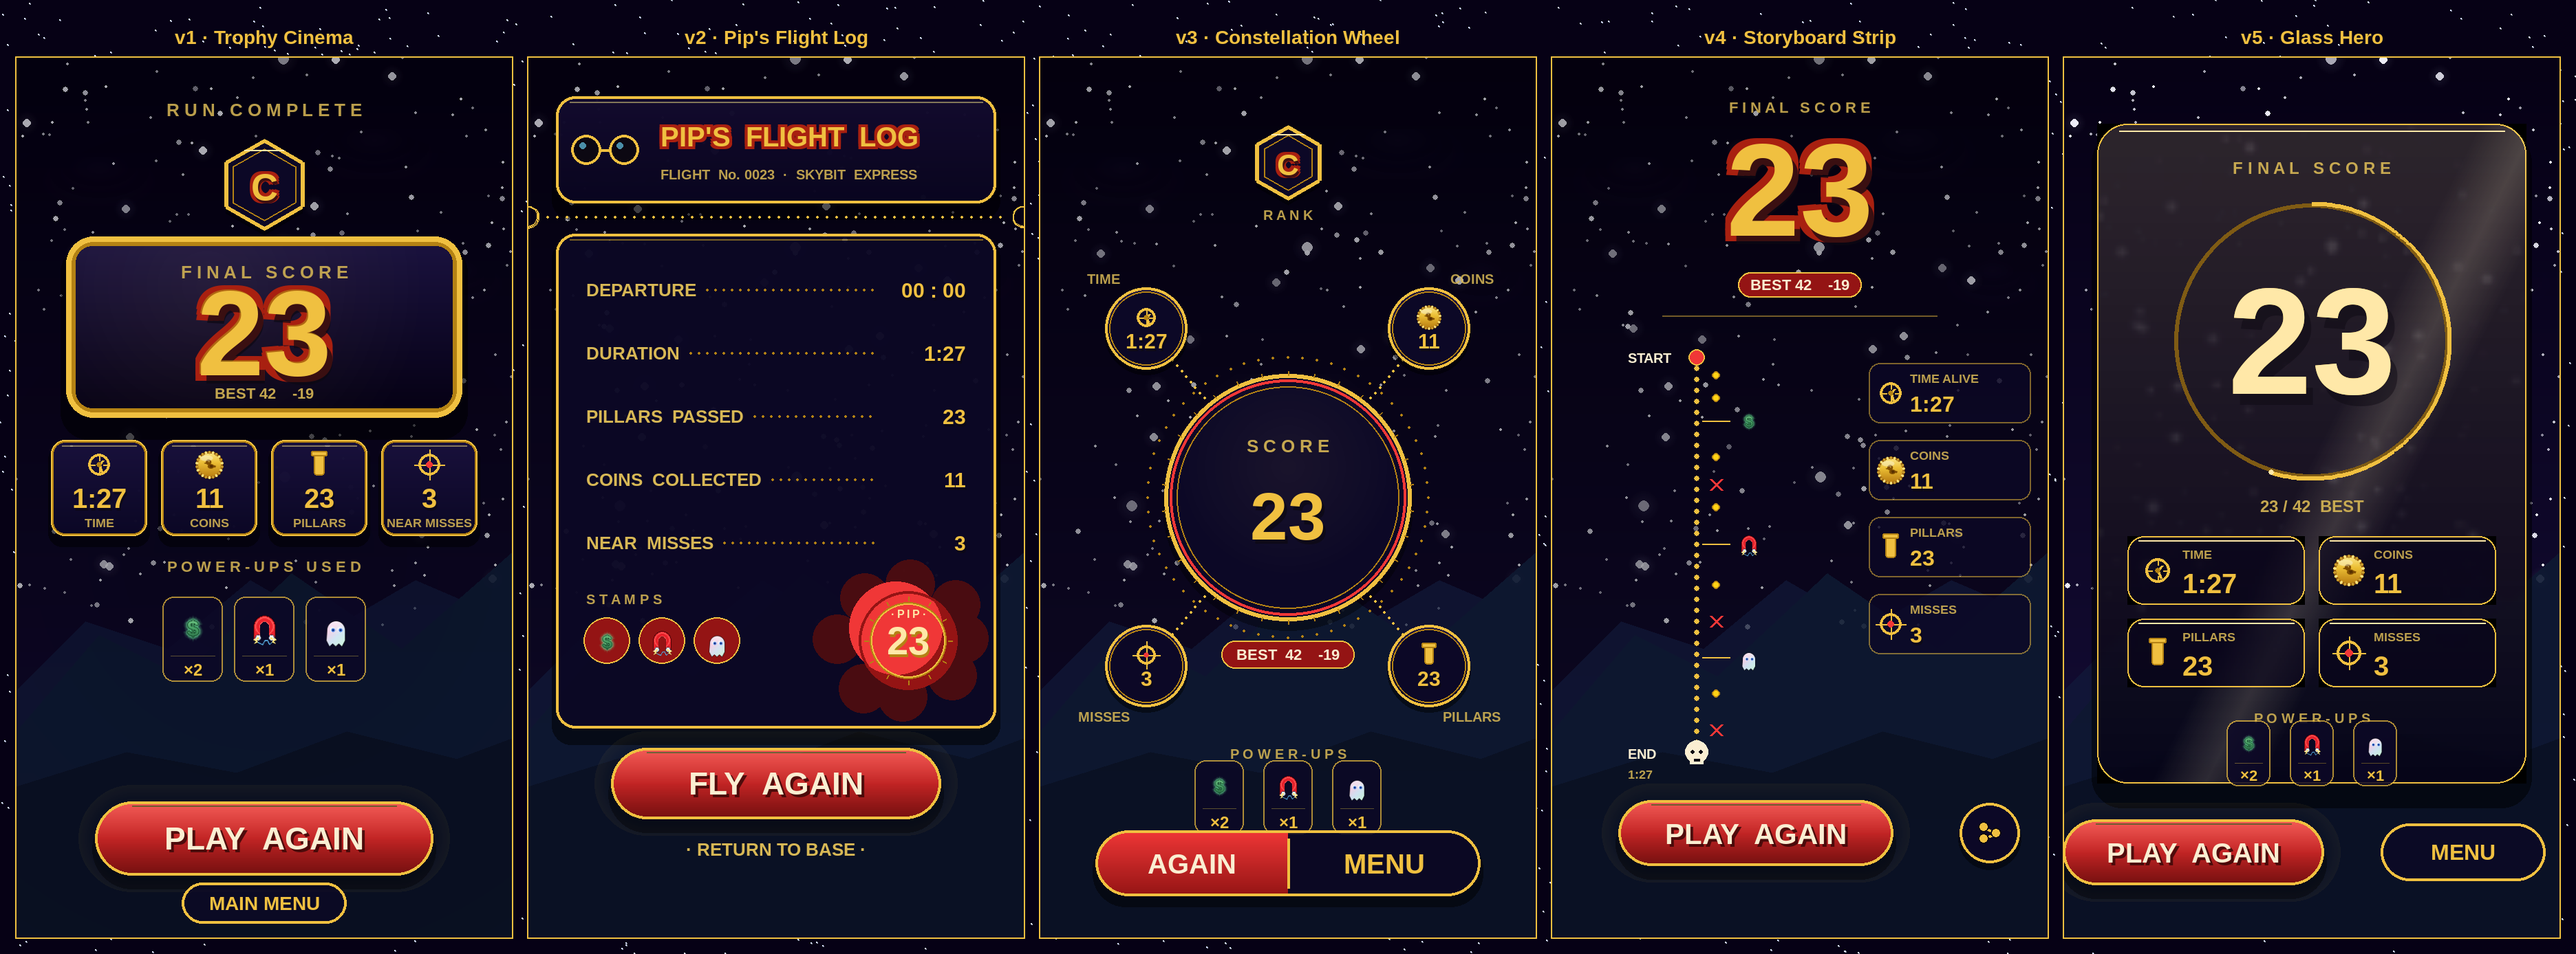
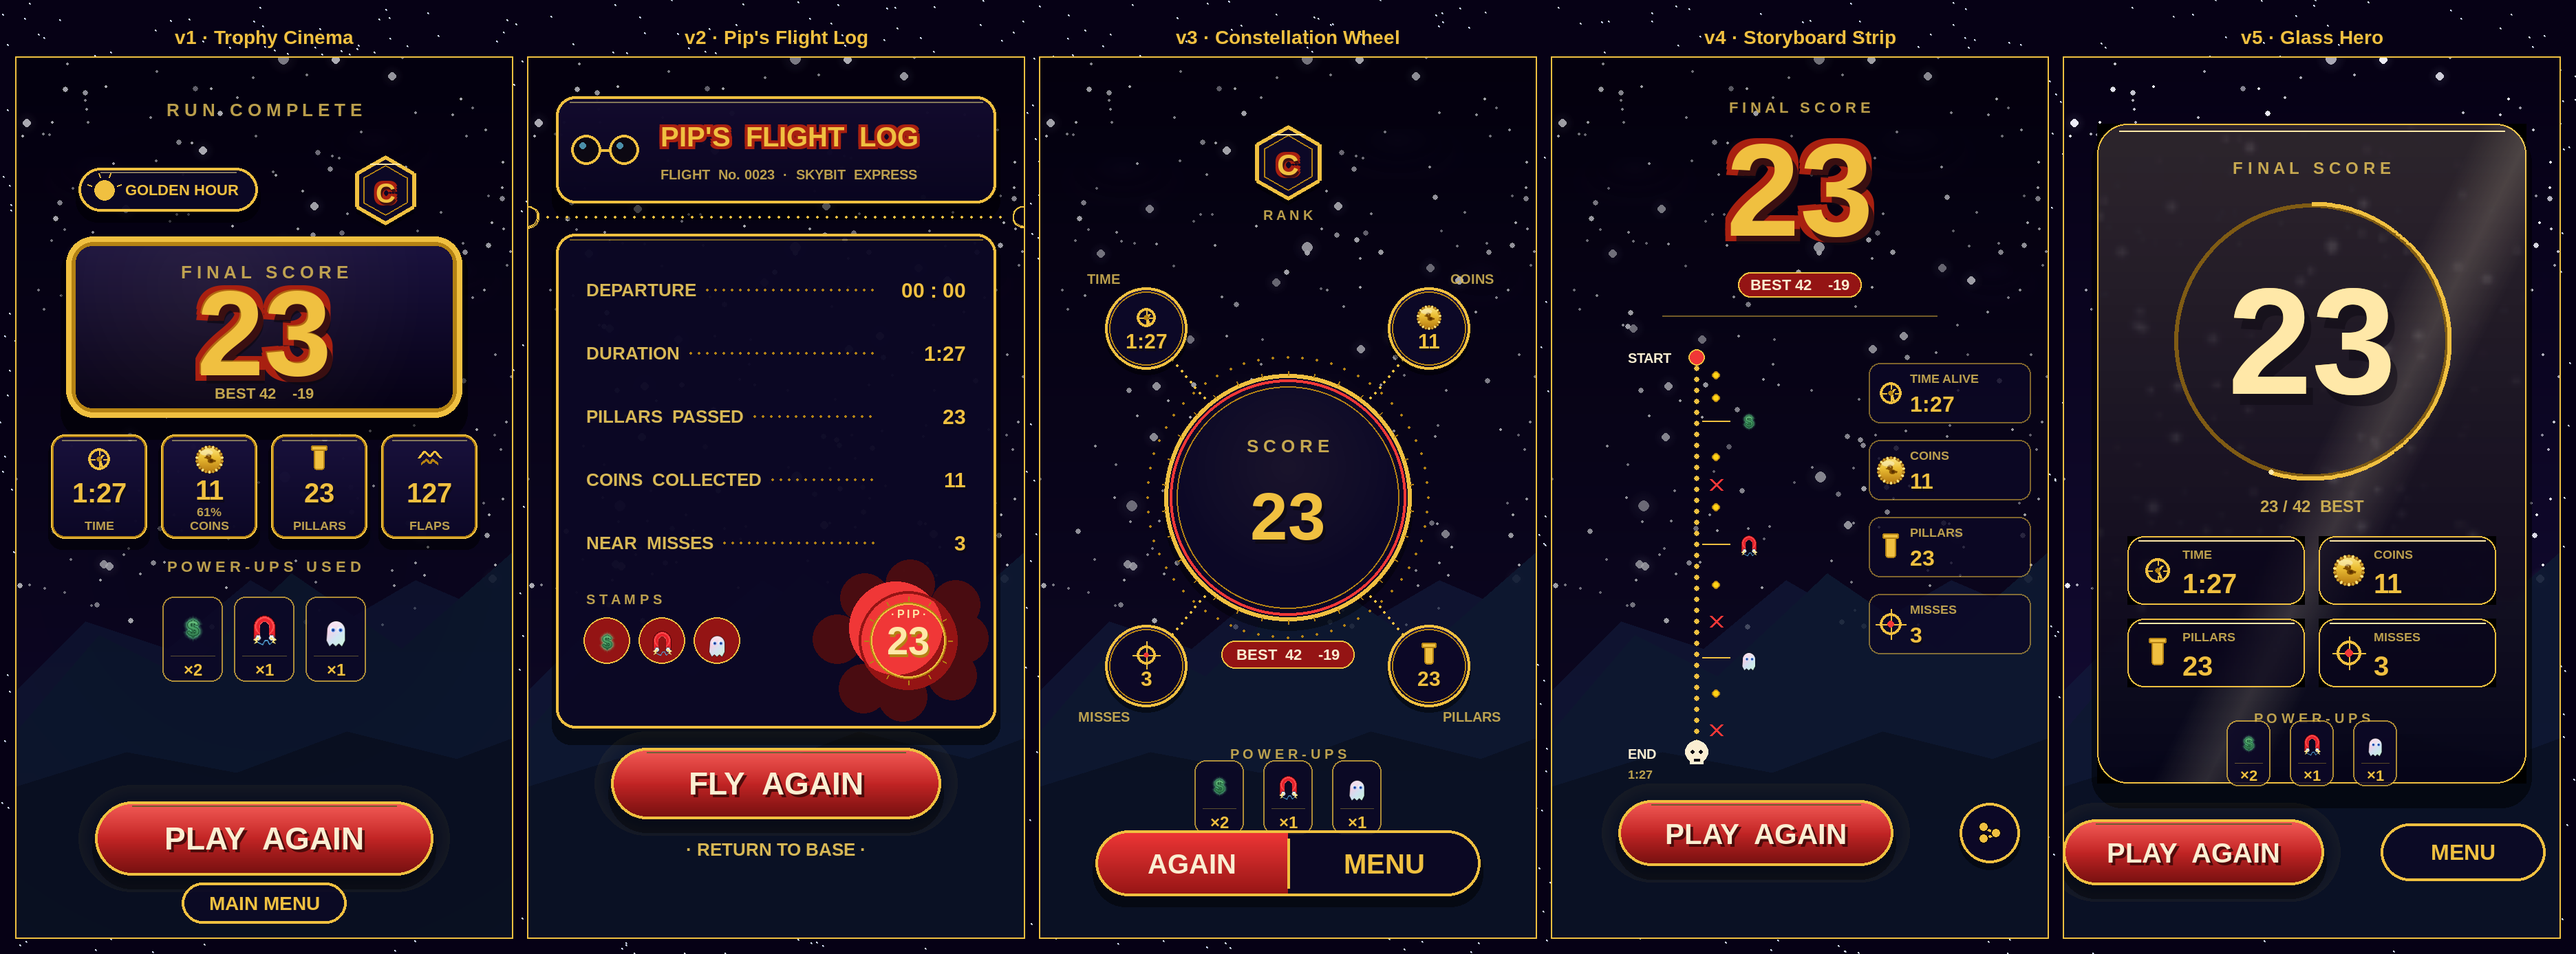
v1 metrics: biome chip, FLAPS tile, coin %, drop NEAR MISSES
Header strip now pairs a BIOME REACHED pill (sun-icon + phase name) on
the left with the hex RANK medal on the right — both biomes and rank
are run "destinations" that read together.

Stat tile row replaces NEAR MISSES with FLAPS (wing-flap glyph,
universal Flappy stat), and COINS gains a small "61%" caption below
the raw count to surface coin-grab efficiency.

stat_tile_chunky now takes an optional subline; biome_chip and
draw_biome_icon are new mock-only helpers that pick a phase-appropriate
sun/moon glyph based on the biome name.

https://claude.ai/code/session_01BEgi1kRwzhWvvC8NuZNc1t

Changed region(s): [[0.0312, 0.4337, 0.1875, 0.5886], [0.0312, 0.1549, 0.1562, 0.2478]]

diff --git a/tools/gen_run_summary_redesigns.py b/tools/gen_run_summary_redesigns.py
@@ -74,8 +74,11 @@ DATA = dict(
     time_str="1:27",
     duration_s=87,
     coins=11,
+    coins_total=18,  # for percentage caption
     pillars=23,
     near_misses=3,
+    flaps=127,
+    biome_reached="GOLDEN HOUR",
     # Per-kind counts. Only kinds with count > 0 are rendered. Layout
     # has room for all 7 kinds (triple, magnet, slowmo, kfc, ghost,
     # grow, surprise) — the scarlet macaw can grab more than one of
@@ -472,6 +475,23 @@ def stat_icon(surf, kind, cx, cy, size):
                          (cx - w // 2 - 2 * SCALE, cy - s - 2 * SCALE,
                           w + 4 * SCALE, 4 * SCALE),
                          width=1 * SCALE, border_radius=int(1 * SCALE))
+    elif kind == "flap":
+        # Two stylised wing strokes suggesting a flap. Upper bright,
+        # lower deep-gold for depth.
+        pygame.draw.lines(surf, GOLD_BRIGHT, False, [
+            (cx - s, cy - s * 0.1),
+            (cx - s * 0.45, cy - s * 0.7),
+            (cx, cy - s * 0.2),
+            (cx + s * 0.45, cy - s * 0.7),
+            (cx + s, cy - s * 0.1),
+        ], 2 * SCALE)
+        pygame.draw.lines(surf, GOLD_DEEP, False, [
+            (cx - s * 0.75, cy + s * 0.4),
+            (cx - s * 0.3, cy + s * 0.0),
+            (cx, cy + s * 0.4),
+            (cx + s * 0.3, cy + s * 0.0),
+            (cx + s * 0.75, cy + s * 0.4),
+        ], 2 * SCALE)
     elif kind == "bolt":
         pts = [(cx - s * 0.3, cy - s),
                (cx + s * 0.5, cy - s * 0.1),
@@ -532,7 +552,115 @@ def stat_icon(surf, kind, cx, cy, size):
                                (int(nx), int(ny)), 4 * SCALE, 1 * SCALE)
 
 
-def stat_tile_chunky(surf, rect, icon_kind, value, label):
+def draw_biome_icon(surf, biome_name, cx, cy, size):
+    """Tiny glyph representing a biome phase. Drawn in gold so the chip
+    keeps the established colour language regardless of which phase
+    was reached."""
+    s = size * SCALE
+    name = (biome_name or "DAY").upper()
+    if "NIGHT" in name:
+        # Crescent moon
+        pygame.draw.circle(surf, GOLD_BRIGHT, (cx, cy), int(s))
+        pygame.draw.circle(surf, PANEL_DARK,
+                           (int(cx + s * 0.35), cy - int(s * 0.05)),
+                           int(s * 0.85))
+    elif "DUSK" in name or "PREDAWN" in name:
+        # Half moon + small twinkle
+        pygame.draw.circle(surf, GOLD_BRIGHT, (cx, cy), int(s))
+        pygame.draw.rect(surf, PANEL_DARK,
+                         (cx - int(s), cy - int(s),
+                          int(s), int(s * 2)))
+        # Tiny star sparkle
+        pygame.draw.circle(surf, GOLD_BRIGHT,
+                           (int(cx + s * 1.2), int(cy - s * 0.6)),
+                           1 * SCALE)
+    elif "SUNRISE" in name or "SUNSET" in name:
+        # Sun half on horizon — semi-circle + horizon line
+        pygame.draw.circle(surf, GOLD_BRIGHT, (cx, cy + 1), int(s))
+        pygame.draw.rect(surf, PANEL_DARK,
+                         (cx - int(s) - 2, cy + 1,
+                          int(s) * 2 + 4, int(s) + 4))
+        pygame.draw.line(surf, GOLD_BRIGHT,
+                         (cx - int(s * 1.4), cy + 1),
+                         (cx + int(s * 1.4), cy + 1), 1 * SCALE)
+        # Tiny rays
+        for dx in (-int(s * 0.6), 0, int(s * 0.6)):
+            pygame.draw.line(surf, GOLD_BRIGHT,
+                             (cx + dx, cy - int(s) - 1 * SCALE),
+                             (cx + dx, cy - int(s) - 4 * SCALE),
+                             1 * SCALE)
+    elif "GOLDEN" in name:
+        # Low sun with horizontal rays
+        pygame.draw.circle(surf, GOLD_BRIGHT, (cx, cy + 1), int(s * 0.85))
+        for ang_deg in (-160, -110, -70, -20):
+            a = math.radians(ang_deg)
+            x1 = cx + math.cos(a) * (s + 1 * SCALE)
+            y1 = cy + 1 + math.sin(a) * (s + 1 * SCALE)
+            x2 = cx + math.cos(a) * (s + 4 * SCALE)
+            y2 = cy + 1 + math.sin(a) * (s + 4 * SCALE)
+            pygame.draw.line(surf, GOLD_BRIGHT, (x1, y1), (x2, y2),
+                             1 * SCALE)
+    else:  # DAY / default
+        # Full sun with radial rays
+        pygame.draw.circle(surf, GOLD_BRIGHT, (cx, cy), int(s * 0.7))
+        for ang_deg in range(0, 360, 45):
+            a = math.radians(ang_deg)
+            x1 = cx + math.cos(a) * (s * 0.85)
+            y1 = cy + math.sin(a) * (s * 0.85)
+            x2 = cx + math.cos(a) * (s * 1.2)
+            y2 = cy + math.sin(a) * (s * 1.2)
+            pygame.draw.line(surf, GOLD_BRIGHT, (x1, y1), (x2, y2),
+                             1 * SCALE)
+
+
+def biome_chip(surf, center, biome_name, sub_label="REACHED"):
+    """Small pill showing the day-cycle phase the player flew through
+    by the time the run ended. Sits beside the rank medal in the
+    header strip."""
+    cx, cy = center
+    f = font(11, True)
+    txt = f.render(biome_name, True, GOLD_BRIGHT)
+    icon_box = 22 * SCALE
+    pad_l = 8 * SCALE
+    pad_r = 14 * SCALE
+    chip_w = pad_l + icon_box + 4 * SCALE + txt.get_width() + pad_r
+    chip_h = 32 * SCALE
+    rect = pygame.Rect(cx - chip_w // 2, cy - chip_h // 2, chip_w, chip_h)
+    # Shadow
+    sh = pygame.Surface((chip_w + 4 * SCALE, chip_h + 4 * SCALE),
+                        pygame.SRCALPHA)
+    pygame.draw.rect(sh, (0, 0, 0, 110),
+                     (0, 0, chip_w + 4 * SCALE, chip_h + 4 * SCALE),
+                     border_radius=chip_h // 2)
+    surf.blit(sh, (rect.x - 2 * SCALE, rect.y + 4 * SCALE))
+    # Body
+    body = pygame.Surface(rect.size, pygame.SRCALPHA)
+    pygame.draw.rect(body, (*PANEL_DARK, 230),
+                     (0, 0, chip_w, chip_h), border_radius=chip_h // 2)
+    pygame.draw.rect(body, GOLD_BRIGHT,
+                     (0, 0, chip_w, chip_h),
+                     width=2 * SCALE, border_radius=chip_h // 2)
+    # Top inner highlight
+    pygame.draw.line(body, (*GOLD_PALE, 130),
+                     (chip_h // 2, 3 * SCALE),
+                     (chip_w - chip_h // 2, 3 * SCALE), 1 * SCALE)
+    surf.blit(body, rect.topleft)
+    # Icon (centered in icon_box)
+    draw_biome_icon(surf, biome_name,
+                    rect.x + pad_l + icon_box // 2,
+                    rect.centery,
+                    size=9)
+    # Text
+    tx = rect.x + pad_l + icon_box + 4 * SCALE
+    surf.blit(txt, (tx, rect.centery - txt.get_height() // 2))
+    # Small sub-label beneath
+    if sub_label:
+        sf = font(8, True).render(sub_label, True, GOLD_MUTED)
+        sf.set_alpha(220)
+        surf.blit(sf, sf.get_rect(center=(cx, rect.bottom + 12 * SCALE)))
+
+
+def stat_tile_chunky(surf, rect, icon_kind, value, label, subline=None):
     """Chunky engraved stat tile used in v1 (Trophy Cinema)."""
     # Drop shadow
     sh = pygame.Surface((rect.w + 4 * SCALE, rect.h + 4 * SCALE),
@@ -570,9 +698,17 @@ def stat_tile_chunky(surf, rect, icon_kind, value, label):
     vf = font(20, True).render(str(value), True, GOLD_BRIGHT)
     vs = font(20, True).render(str(value), True, NEAR_BLACK)
     vs.set_alpha(170)
-    vr = vf.get_rect(center=(rect.centerx, rect.y + 42 * SCALE))
+    vy = rect.y + 40 * SCALE if subline else rect.y + 42 * SCALE
+    vr = vf.get_rect(center=(rect.centerx, vy))
     surf.blit(vs, (vr.x + 1 * SCALE, vr.y + 2 * SCALE))
     surf.blit(vf, vr)
+    # Optional subline — small gold-muted caption directly below the
+    # value (used for COINS to surface "61%" alongside the raw count)
+    if subline:
+        sf = font(9, True).render(subline, True, GOLD_MUTED)
+        sf.set_alpha(220)
+        surf.blit(sf, sf.get_rect(center=(rect.centerx,
+                                          rect.y + 56 * SCALE)))
     # Label — shrinks one step if the longer captions ("NEAR MISSES")
     # would otherwise crowd the tile edges
     max_label_w = rect.w - 8 * SCALE
@@ -643,10 +779,19 @@ def draw_v1_trophy_cinema(surf, data):
     cap.set_alpha(220)
     surf.blit(cap, cap.get_rect(center=(W // 2, 38 * SCALE)))
 
-    # Hex grade medal centered top
+    # Header row: BIOME chip on the left, hex RANK medal on the right,
+    # sharing the same vertical centre so they read as a paired set.
+    # Sub-labels are dropped — the medallion shape and the "GOLDEN
+    # HOUR"-style biome name both self-identify, and removing them
+    # frees up the strip below for the plaque.
     grade = grade_for(data["score"])
-    hex_medal(surf, W // 2, 92 * SCALE, size=32, letter=grade,
-              sub_label="R A N K")
+    header_cy = 96 * SCALE
+    biome_chip(surf,
+               (W // 2 - 70 * SCALE, header_cy),
+               data.get("biome_reached", "DAY"),
+               sub_label=None)
+    hex_medal(surf, W // 2 + 88 * SCALE, header_cy,
+              size=24, letter=grade, sub_label=None)
 
     # Hero score plaque — large rounded engraved panel
     plaque = pygame.Rect(36 * SCALE, 130 * SCALE,
@@ -720,22 +865,25 @@ def draw_v1_trophy_cinema(surf, data):
                                        plaque.bottom - 18 * SCALE)))
 
     # Stat tile row (4 tiles)
+    coins_pct = (round(data["coins"] / data["coins_total"] * 100)
+                 if data.get("coins_total") else None)
+    coins_sub = f"{coins_pct}%" if coins_pct is not None else None
     tiles = [
-        ("time", data["time_str"], "TIME"),
-        ("coin", data["coins"], "COINS"),
-        ("pillar", data["pillars"], "PILLARS"),
-        ("crosshair", data["near_misses"], "NEAR MISSES"),
+        ("time", data["time_str"], "TIME", None),
+        ("coin", data["coins"], "COINS", coins_sub),
+        ("pillar", data["pillars"], "PILLARS", None),
+        ("flap", data["flaps"], "FLAPS", None),
     ]
     tile_w = 70 * SCALE
-    tile_h = 70 * SCALE
+    tile_h = 76 * SCALE  # taller to accommodate the COINS subline
     tile_gap = 10 * SCALE
     total_w = len(tiles) * tile_w + (len(tiles) - 1) * tile_gap
     start_x = (W - total_w) // 2
-    tile_y = 278 * SCALE
-    for i, (k, v, lbl) in enumerate(tiles):
+    tile_y = 274 * SCALE
+    for i, (k, v, lbl, sub) in enumerate(tiles):
         r = pygame.Rect(start_x + i * (tile_w + tile_gap), tile_y,
                         tile_w, tile_h)
-        stat_tile_chunky(surf, r, k, v, lbl)
+        stat_tile_chunky(surf, r, k, v, lbl, subline=sub)
 
     # Power-ups grid — chip per kind that was actually picked. The chip
     # size is *fixed* regardless of how many kinds were grabbed; if more
